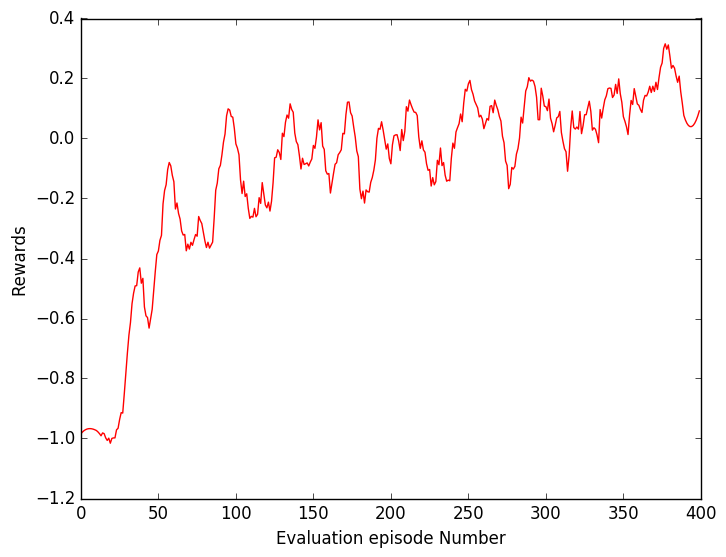
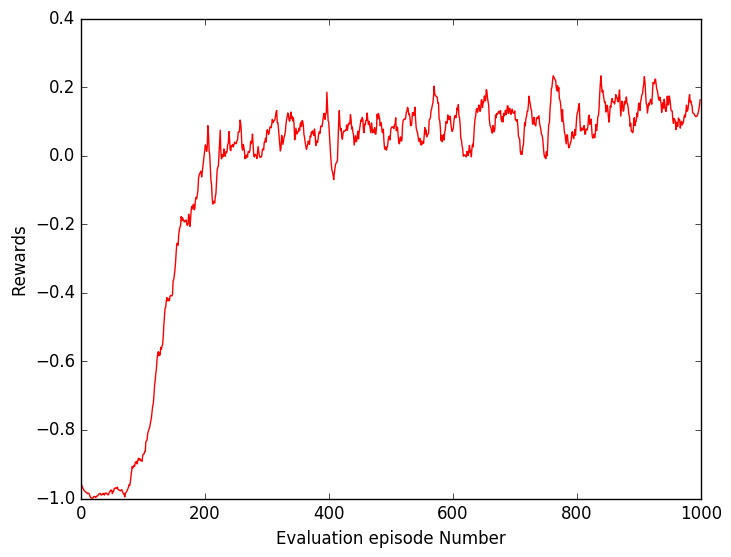
Change in parameters

diff --git a/synthetic-game/config.py b/synthetic-game/config.py
@@ -10,7 +10,7 @@ class config():
         
         epsilon_test = 0
         epsilon_start = 1
-        epsilon_end = 0.1
+        epsilon_end = 0.3
         epsilon = epsilon_start
         #Number of iterations for decay
         iterations = 10000
@@ -25,7 +25,7 @@ class config():
         
         epsilon_test = 0
         epsilon_start = 1
-        epsilon_end = 0.1
+        epsilon_end = 0.3
         epsilon = epsilon_start
         #Number of iterations for decay
         iterations = 10000
@@ -40,12 +40,14 @@ class config():
     # Number of rounds of dialog before cutoff
     max_dialog_rounds = 2
     # Batch Size
-    batch_size = 200
-    num_iterations = 15000
+    batch_size = 100
+    num_iterations = 50000
     verbose = False
 ## Evaluation parameters
     test_batch = 50
     eval_every = 50
+    show_dialog = False
+    dialogs_to_show = 3
 ## Smoothing parameters for plot
     win_length = 21
     polyorder = 3

diff --git a/synthetic-game/bots.py b/synthetic-game/bots.py
@@ -172,7 +172,7 @@ class SyntheticABot(ABot):
         Returns:
             state: encoded states that combine question_encodings and facts
         """
-        new_states = zip(images, question_encodings, recent_facts)
+        new_states = zip(question_encodings, recent_facts)
         histories = [state + new_states[i] for i, state in enumerate(prev_states)]
         return histories
 
